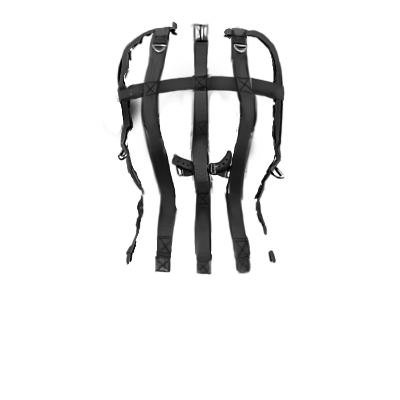
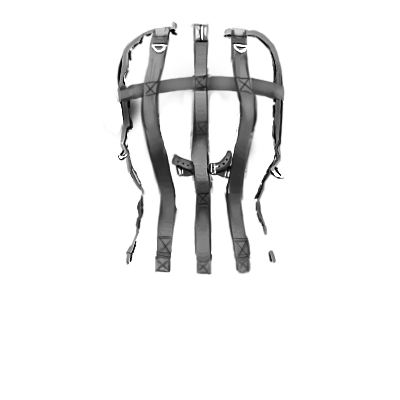
Adds multi-colouring support to the high security straitjacket

diff --git a/BondageClub/Assets/Female3DCG/Female3DCG.js b/BondageClub/Assets/Female3DCG/Female3DCG.js
@@ -1612,22 +1612,22 @@ var AssetFemale3DCG = [
 			},
 			{ Name: "LeatherArmSplints", Value: 65, Fetish: ["Leather"], Difficulty: 7, SelfBondage: 7, Time: 15, RemoveTime: 10, Visible: false, AllowLock: true, SetPose: ["BackElbowTouch"], Effect: ["Block", "Prone"], SelfUnlock: false },
 			{ Name: "TightJacketCrotch", Fetish: ["Leather"], DefaultColor: "#FFFFFF", Value: 150, Difficulty: 6, SelfBondage: 8, Time: 35, RemoveTime: 20, AllowLock: true, Hide: ["Cloth", "ItemNipplesPiercings"], HideItem: ["ClothLowerSkirt1", "ClothLowerSkirt2", "ClothLowerSkirt3", "ClothLowerTennisSkirt1", "ClothLowerGown2Skirt", "ClothLowerWaspie1", "ClothLowerWaspie2", "ClothLowerWaspie3", "ClothLowerLatexSkirt1", "ClothLowerLatexSkirt2", "ClothLowerClothSkirt1", "ClothLowerChineseSkirt1", "ClothLowerAdmiralSkirt", "ClothLowerJeanSkirt", "ClothLowerPencilSkirt"], SetPose: ["BackElbowTouch"], Effect: ["Block", "Prone"], Block: ["ItemNipples", "ItemNipplesPiercings", "ItemTorso", "ItemBreast", "ItemHands", "ItemVulva", "ItemButt", "ItemVulvsPiercings"], BuyGroup: "TightJacket", SelfUnlock: false, Extended: true, AllowType: ["PulledStraps", "LiningStraps", "ExtraPadding", "PulledLining", "PulledPadding", "PaddedLining", "FullJacket"] },
-			{ Name: "HighSecurityStraitJacket", Value: 220, Priority: 25, Difficulty: 4, SelfBondage: 2, Time: 45, RemoveTime: 30, Random: false, AllowLock: true, DefaultColor: "#333", Hide: ["Cloth", "ItemNipplesPiercings"], SetPose: ["BackElbowTouch"], Effect: ["Block", "Prone"],
+			{ Name: "HighSecurityStraitJacket", Value: 220, Priority: 25, Difficulty: 4, SelfBondage: 2, Time: 45, RemoveTime: 30, Random: false, AllowLock: true, DefaultColor: ["#333", "#333", "#3e3e3e", "#3e3e3e"], Hide: ["Cloth", "ItemNipplesPiercings"], SetPose: ["BackElbowTouch"], Effect: ["Block", "Prone"],
 				AllowBlock: ["ItemNipples", "ItemNipplesPiercings", "ItemTorso", "ItemBreast", "ItemHands", "ItemVulva", "ItemVulvaPiercings", "ItemButt", "ItemPelvis"],
 				AllowType: ["c0a0s0", "c0a0s1", "c0a0s2", "c0a0s3", "c0a1s0", "c0a1s1", "c0a1s2", "c0a1s3", "c0a2s0", "c0a2s1", "c0a2s2", "c0a2s3", "c1a0s0", "c1a0s1", "c1a0s2", "c1a0s3", "c1a1s0", "c1a1s1", "c1a1s2", "c1a1s3", "c1a2s0", "c1a2s1", "c1a2s2", "c1a2s3"],
 				Block: ["ItemNipples", "ItemNipplesPiercings", "ItemTorso", "ItemBreast", "ItemHands"],
 				Extended: true,
 				Layer: [
-					{ Name: "Crotch", ParentGroup: null, AllowTypes: ["c1a0s0", "c1a0s1", "c1a0s2", "c1a0s3", "c1a1s0", "c1a1s1", "c1a1s2", "c1a1s3", "c1a2s0", "c1a2s1", "c1a2s2", "c1a2s3"], HasType: false },
-					{ Name: "JacketLoose", ParentGroup: null, AllowTypes: ["c0a0s0", "c0a0s1", "c0a0s2", "c0a0s3", "c1a0s0", "c1a0s1", "c1a0s2", "c1a0s3"], HasType: false},
-					{ Name: "JacketFront", AllowTypes: ["c0a1s0", "c0a1s1", "c0a1s2", "c0a1s3", "c1a1s0", "c1a1s1", "c1a1s2", "c1a1s3"], HasType: false },
-					{ Name: "JacketBack", AllowTypes: ["c0a2s0", "c0a2s1", "c0a2s2", "c0a2s3", "c1a2s0", "c1a2s1", "c1a2s2", "c1a2s3"], HasType: false },
-					{ Name: "StrapsLoose", AllowColorize: false, AllowTypes: ["c0a0s0", "c0a0s1", "c0a0s2", "c0a0s3", "c1a0s0", "c1a0s1", "c1a0s2", "c1a0s3"], HasType: false},
-					{ Name: "StrapsFront", AllowColorize: false, AllowTypes: ["c0a1s0", "c0a1s1", "c0a1s2", "c0a1s3", "c1a1s0", "c1a1s1", "c1a1s2", "c1a1s3"], HasType: false },
-					{ Name: "StrapsBack", AllowColorize: false, AllowTypes: ["c0a2s0", "c0a2s1", "c0a2s2", "c0a2s3", "c1a2s0", "c1a2s1", "c1a2s2", "c1a2s3"], HasType: false },
-					{ Name: "CrotchStrapsSingle", ParentGroup: null, AllowColorize: false, AllowTypes: ["c0a0s1", "c0a1s1", "c0a2s1", "c1a0s1", "c1a1s1", "c1a2s1"], HasType: false },
-					{ Name: "CrotchStrapsDouble", ParentGroup: null, AllowColorize: false, AllowTypes: ["c0a0s2", "c0a1s2", "c0a2s2", "c1a0s2", "c1a1s2", "c1a2s2"], HasType: false },
-					{ Name: "CrotchStrapsTriple", ParentGroup: null, AllowColorize: false, AllowTypes: ["c0a0s3", "c0a1s3", "c0a2s3", "c1a0s3", "c1a1s3", "c1a2s3"], HasType: false },
+					{ Name: "Crotch", ColorGroup: "Canvas", ParentGroup: null, AllowTypes: ["c1a0s0", "c1a0s1", "c1a0s2", "c1a0s3", "c1a1s0", "c1a1s1", "c1a1s2", "c1a1s3", "c1a2s0", "c1a2s1", "c1a2s2", "c1a2s3"], HasType: false },
+					{ Name: "JacketLoose", ColorGroup: "Canvas", ParentGroup: null, AllowTypes: ["c0a0s0", "c0a0s1", "c0a0s2", "c0a0s3", "c1a0s0", "c1a0s1", "c1a0s2", "c1a0s3"], HasType: false},
+					{ Name: "JacketFront", CopyLayerColor: "JacketLoose", AllowTypes: ["c0a1s0", "c0a1s1", "c0a1s2", "c0a1s3", "c1a1s0", "c1a1s1", "c1a1s2", "c1a1s3"], HasType: false },
+					{ Name: "JacketBack", CopyLayerColor: "JacketLoose", AllowTypes: ["c0a2s0", "c0a2s1", "c0a2s2", "c0a2s3", "c1a2s0", "c1a2s1", "c1a2s2", "c1a2s3"], HasType: false },
+					{ Name: "StrapsLoose", ColorGroup: "Straps", AllowTypes: ["c0a0s0", "c0a0s1", "c0a0s2", "c0a0s3", "c1a0s0", "c1a0s1", "c1a0s2", "c1a0s3"], HasType: false},
+					{ Name: "StrapsFront", CopyLayerColor: "StrapsLoose", AllowTypes: ["c0a1s0", "c0a1s1", "c0a1s2", "c0a1s3", "c1a1s0", "c1a1s1", "c1a1s2", "c1a1s3"], HasType: false },
+					{ Name: "StrapsBack", CopyLayerColor: "StrapsLoose", AllowTypes: ["c0a2s0", "c0a2s1", "c0a2s2", "c0a2s3", "c1a2s0", "c1a2s1", "c1a2s2", "c1a2s3"], HasType: false },
+					{ Name: "CrotchStrapsSingle", ColorGroup: "Straps", ParentGroup: null, AllowTypes: ["c0a0s1", "c0a1s1", "c0a2s1", "c1a0s1", "c1a1s1", "c1a2s1"], HasType: false },
+					{ Name: "CrotchStrapsDouble", CopyLayerColor: "CrotchStrapsSingle", ParentGroup: null, AllowTypes: ["c0a0s2", "c0a1s2", "c0a2s2", "c1a0s2", "c1a1s2", "c1a2s2"], HasType: false },
+					{ Name: "CrotchStrapsTriple", CopyLayerColor: "CrotchStrapsSingle", ParentGroup: null, AllowTypes: ["c0a0s3", "c0a1s3", "c0a2s3", "c1a0s3", "c1a1s3", "c1a2s3"], HasType: false },
 				],
 				SelfUnlock: false
 			},
@@ -1636,7 +1636,7 @@ var AssetFemale3DCG = [
 			  Block: ["ItemHands", "ItemVulva", "ItemButt", "ItemVulvaPiercings", "ItemNipplesPiercings"] },
 			{ Name: "PantyhoseBodyOpen", Fetish: ["Nylon"], Value: 75, Priority: 15, Difficulty: 3, SelfBondage: 4, Time: 30, RemoveTime: 20, Random: false, BuyGroup: "PantyhoseBody", AllowPose: ["Kneel"], SetPose: ["BackElbowTouch", "LegsClosed"], Effect: ["Block", "Prone"],
 			  Prerequisite: ["NotHogtied", "NotMounted", "NoFeetSpreader"], Hide: ["Cloth", "ClothLower", "Suit", "SuitLower"], Block: ["ItemHands",  "ItemNipplesPiercings"] },
-			AssetSpankingToys
+			AssetSpankingToys,
 		],
 		Color: ["Default"]
 	},
